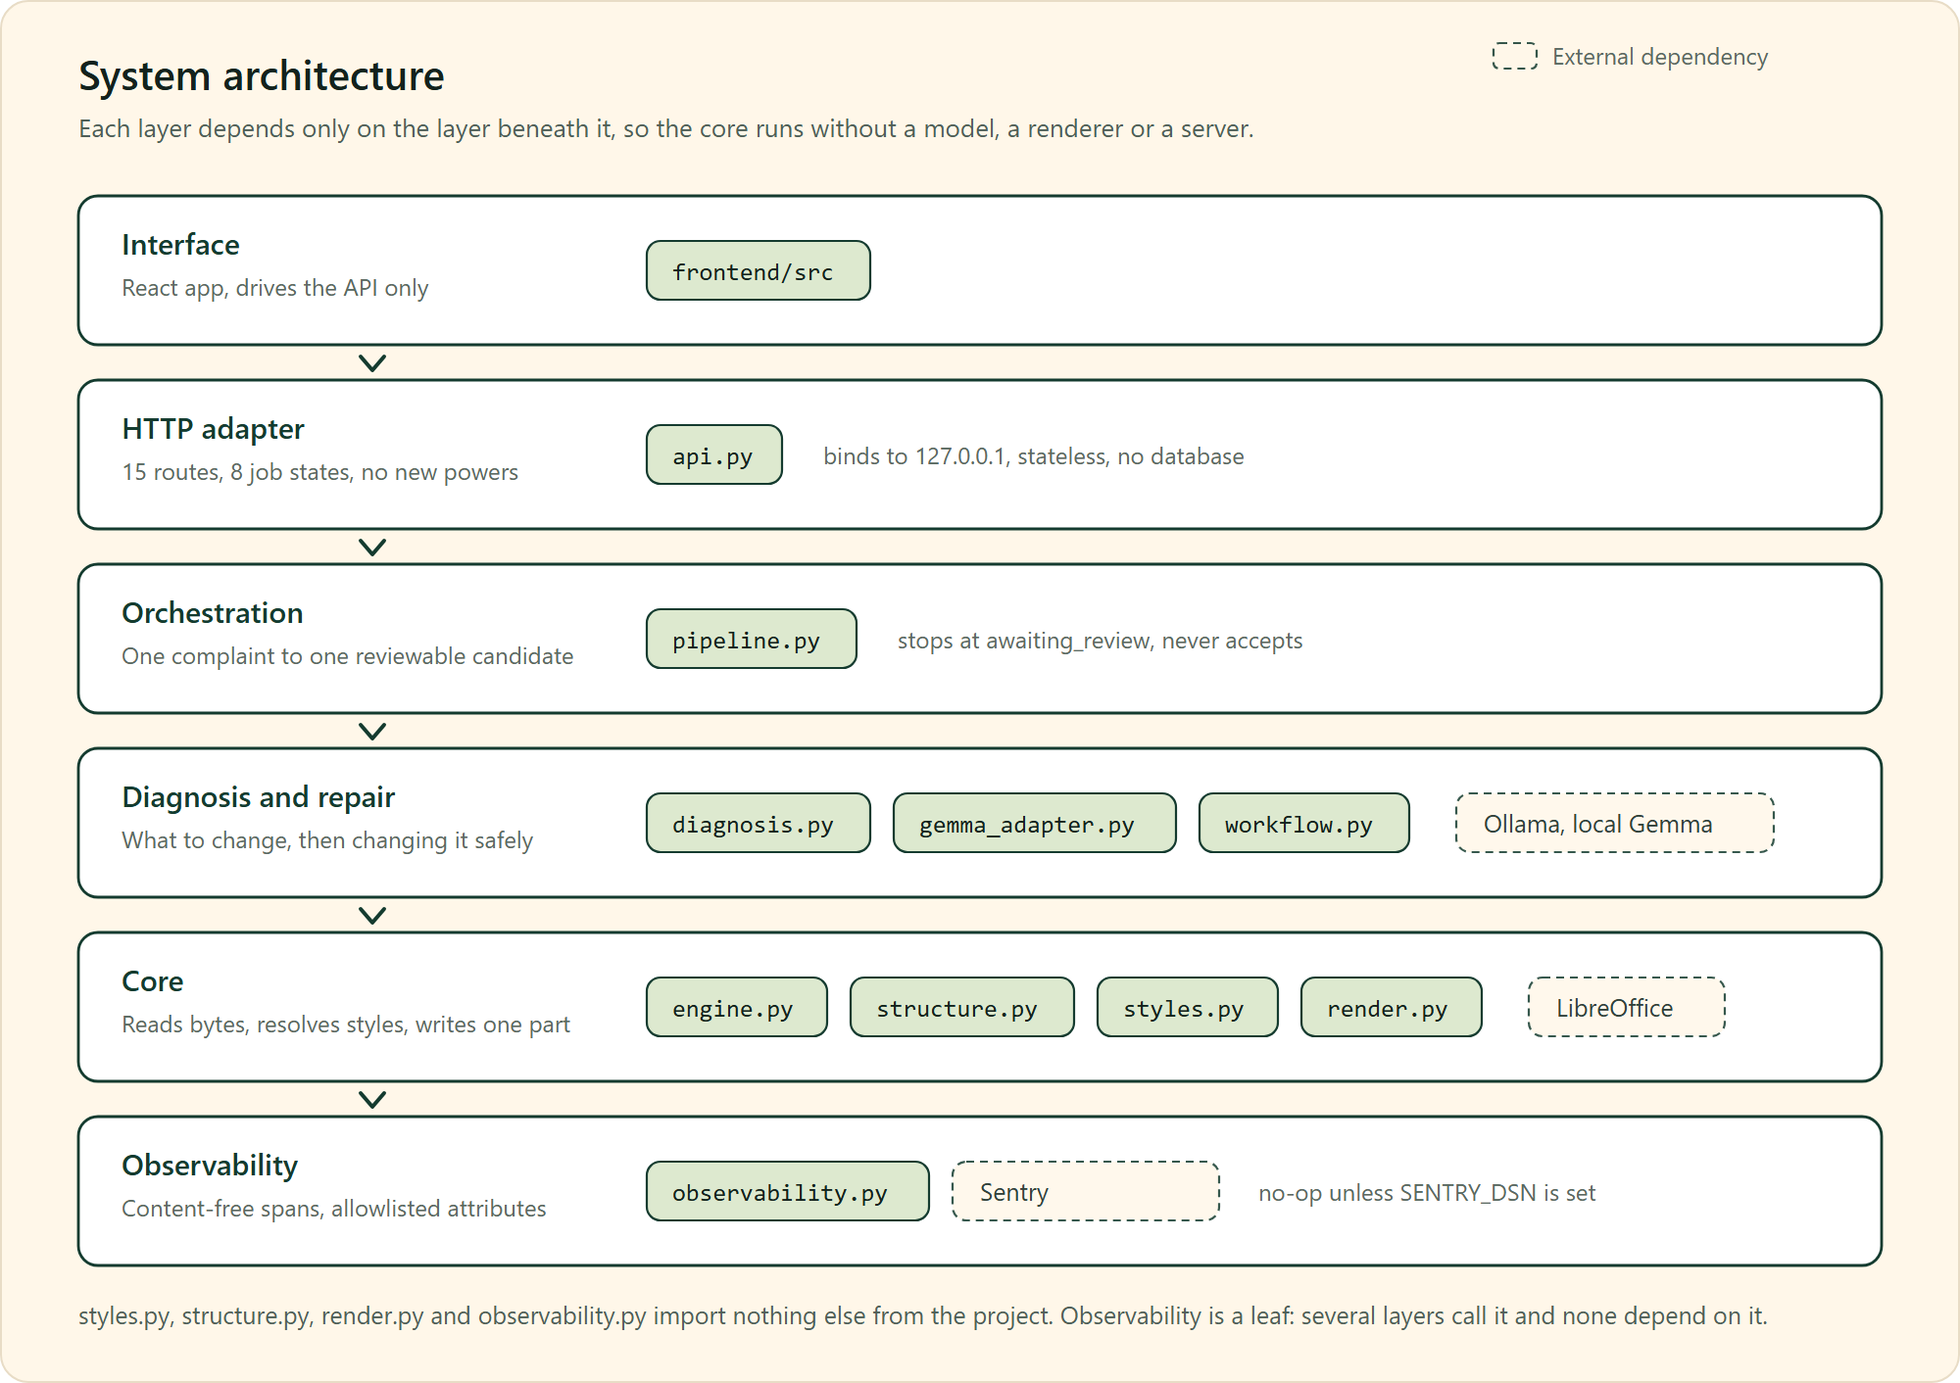
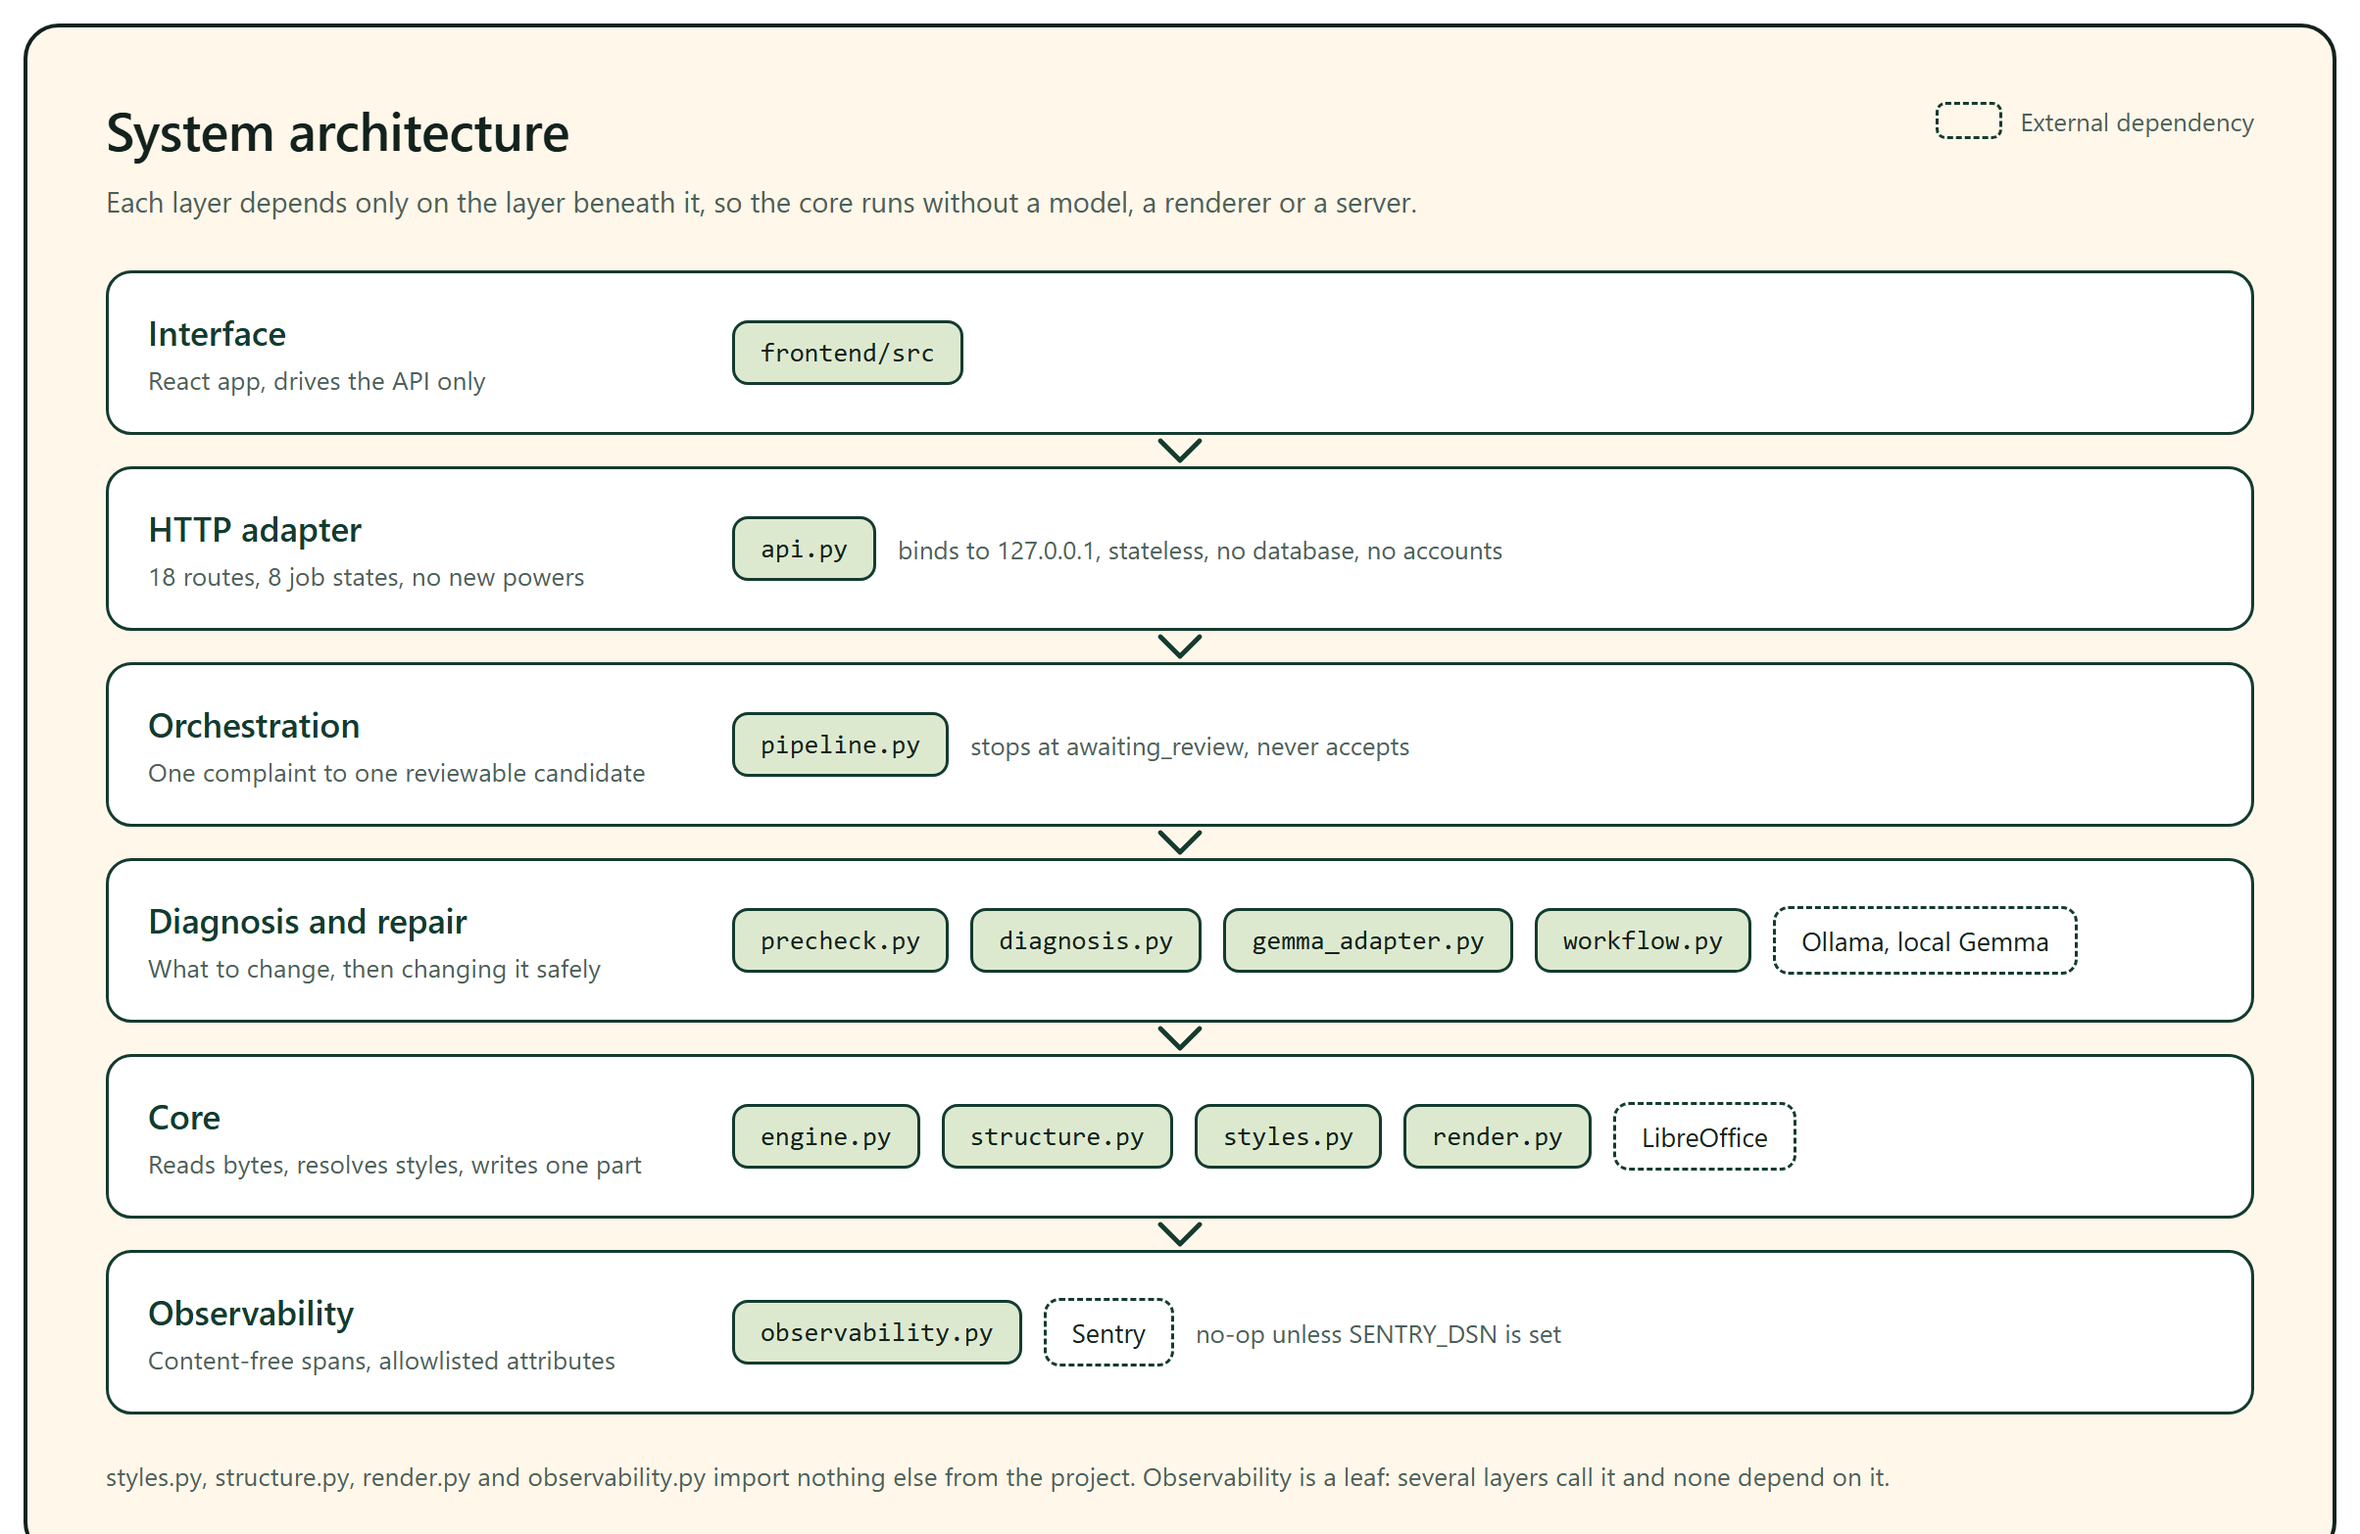
update

Changed region(s): [[0.0, 0.0, 1.0, 1.0]]

diff --git a/README.md b/README.md
@@ -6,18 +6,56 @@
 
 <p align="center"><b>Point at the formatting problem. Get a targeted, reviewable repair.</b></p>
 
-You open a Word document and something is off. A heading floats too far down the page.
-One paragraph is centred when the rest are justified. A page break strands two lines on
-a page of their own. You know what is wrong but not what it is called, and the fix is
-buried three dialogs deep.
+<p align="center">
+  <a href="docs/video/what-the-doc.mp4">Watch the demo</a> ·
+  <a href="#the-problem">The problem</a> ·
+  <a href="#system-architecture">Architecture</a> ·
+  <a href="#run-it-locally">Run it locally</a> ·
+  <a href="CAPABILITIES.md">What it repairs</a> ·
+  <a href="API.md">HTTP API</a>
+</p>
 
-This project takes the complaint in plain language, finds the evidence in the file,
-proposes exactly one bounded change, renders the before and after, checks that nothing
-else moved, and then stops and waits for you. It never accepts its own repair.
+---
 
-A local Gemma does the diagnosis. The document never leaves the machine, there is no
-API key, and the model is only ever allowed to fill in a plan the engine already knew
-how to validate.
+## The problem
+
+You change one line in a Word document and the whole thing rearranges itself. A page
+break appears from nowhere. Paragraphs shift. A heading floats half a page from the
+text it belongs to. There is a blank gap you cannot delete, and none of the settings
+you click seems to be the one responsible.
+
+The symptom is visible; the cause is not. A gap above a heading can be direct spacing,
+a value inherited from a style, a `keep_with_next` chain, an explicit break element or a
+section start: five different things in the file that look identical on the page, each
+fixed from a different dialog. So you work through the ribbon by elimination, and the
+formatting ends up costing more than writing the document did.
+
+## The solution
+
+**What the Doc?!** is a privacy-first formatting assistant for `.docx` files. You upload
+a document, point at the paragraph, and describe what looks wrong in plain language. A
+locally running, open-weight Gemma reads the structured evidence behind that paragraph
+and proposes exactly one bounded change. The service patches a copy, renders before and
+after, re-checks that nothing else in the file moved, and then stops.
+
+A person accepts or rejects. **The tool never accepts its own repair**, and it never
+writes to your original file.
+
+The document never leaves the machine. There is no account, no API key and no upload to
+a third-party service: Gemma runs locally through Ollama, and it is only ever allowed to
+fill in a plan the engine already knew how to validate.
+
+### Why it works this way
+
+Built for the [Hacktoberfest Open-Source AI Challenge, Week 3](https://dev.to/challenges/hf26)
+— theme *Slow and Steady*, 19–25 October 2026 — whose prompt was to use open-source AI
+to automate a task you dread. Word formatting is that task.
+
+Taking "do the tedious work for me" seriously, though, means the tool has to be
+trustworthy enough to be left alone with your file. That is why most of this repository
+is the word **no**: a bounded set of supported edits, a schema the model's answer must
+fit, preservation invariants re-checked against the bytes on disk, and a human gate
+before anything is downloaded. Abstention is a valid answer and is reported as one.
 
 ---
 
@@ -33,7 +71,7 @@ how to validate.
 | [Three repairs, and one non-repair](#three-repairs-and-one-non-repair) | the page-break trap |
 | [Run it locally](#run-it-locally) | five minutes, no model needed |
 | [The live Gemma layer](#the-live-gemma-layer) | setup, prompt, failures, numbers |
-| [The local HTTP API](#the-local-http-api) | what the frontend drives |
+| [The HTTP API](#the-http-api) | what the frontend drives |
 | [Repository layout](#repository-layout) | every file, one line each |
 | [Limits](#limits) | and what this is deliberately not |
 
@@ -81,10 +119,10 @@ paginate alike, so rendered pages stay an approximation.
 
 ![Layered architecture: a React interface over a FastAPI adapter, over the pipeline, over the diagnosis and repair layers, over the core modules, with observability as a leaf](docs/diagrams/architecture.png)
 
-The direction of dependency is the whole design. The HTTP adapter calls the pipeline,
-the pipeline calls diagnosis and workflow, and those call the engine. Nothing lower
-reaches back up, which is why `engine.py inspect` keeps working with no model installed,
-no renderer present and no server running.
+The direction of dependency is the whole design. The HTTP adapter calls the pipeline;
+the pipeline calls the precheck, the diagnosis and the workflow; and those call the
+engine. Nothing lower reaches back up, which is why `engine.py inspect` keeps working
+with no model installed, no renderer present and no server running.
 
 `api.py` is an adapter, not a second engine. Every bound, validator and preservation
 invariant it applies is the one `pipeline.run`, `engine.validate` and
@@ -436,12 +474,12 @@ on the odd-page section. It still never asks for clarification, saying `no_chang
 
 ---
 
-## The local HTTP API
+## The HTTP API
 
 `api.py` is a small FastAPI adapter over the pipeline above, for the React frontend to
-drive. It covers upload, per-paragraph evidence, an asynchronous job with the eight
-states above, before and after preview images, explicit acceptance and a guarded
-download.
+drive. Its eighteen routes cover upload, per-paragraph evidence, an asynchronous job
+with the eight states above, before and after preview images, explicit acceptance and a
+guarded download. It adds no power the command line does not already have.
 
 ```powershell
 pip install -r requirements.txt
@@ -467,8 +505,20 @@ kept strictly apart: an injected diagnosis is refused unless the server was star
 Gemma runtime is reachable a job is refused with `model_unavailable` rather than answered
 from a mock.
 
-It binds to `127.0.0.1` and has **no authentication, no rate limiting, no database and no
-sandbox around LibreOffice. Do not expose it.**
+### Local mode and hosted-demo mode
+
+By default it binds to `127.0.0.1` with **no authentication, no rate limiting, no
+database and no sandbox around LibreOffice**. That is the local development mode, and it
+should not be exposed.
+
+`--public` (or `WTD_PUBLIC=1`) is the hosted-demo mode that the Render blueprint in
+`render.yaml` runs. It still has no accounts. Instead, each browser sends a random
+visitor key so a job list shows only its own jobs, uploads and jobs are rate limited per
+client address, at most three jobs wait at once before a new one is refused with `busy`,
+documents and jobs are deleted after an hour, and fixture injection is forced off. It
+still does not sandbox LibreOffice; the host's container boundary is all there is. This
+is sized for a judged demo of a handful of people, not for a multi-user service.
+[`DEPLOYMENT.md`](DEPLOYMENT.md) states exactly what is built and what is not.
 
 The full contract, with request and response examples, the state table, polling guidance
 for CPU inference and the complete frontend flow, is in [`API.md`](API.md).
@@ -509,6 +559,7 @@ downwards in these tables.
 | --- | --- |
 | `diagnosis.py` | The strict response schema and the named failure codes. It decides what a model answer is not allowed to be. |
 | `gemma_adapter.py` | The prompt builder and the Ollama-compatible client. No file path, raw XML, tool or shell is ever sent. |
+| `precheck.py` | One deterministic rule that runs before the model is asked: a spacing complaint about a paragraph that has no spacing of its own. Its only possible answer is `no_change`, so it can never put an edit in front of anyone; in every other situation it returns nothing and the model is asked as before. |
 | `pipeline.py` | The vertical slice: complaint to diagnosis to validated plan to rendered candidate to review status. Adds no powers the engine does not already have. |
 
 **The service and its tracing**
@@ -525,6 +576,8 @@ downwards in these tables.
 | `fixtures.py` | The Word-openable four-page sample carrying three labelled faults, each recording the repair a correct diagnosis should reach. |
 | `eval_fixtures.py` | The second sample, carrying the cases a diagnosis must get right, including the ones it should decline. |
 | `break_fixtures.py` | Real packages carrying explicit run breaks: manual page breaks (two in a single paragraph, plus unsupported contexts and a line break), a genuinely two-column document with a manual column break, and a two-section document. Kept separate from `fixtures.py`, because a `page_break_before` document is not evidence about an explicit break. |
+| `section_fixtures.py` | Word-openable documents carrying more than one section, kept separate again because a section start is a third distinct thing from a `page_break_before` and from an explicit break. |
+| `make_test_documents.py` | Writes `test-documents/` and its manifest. The files are committed, so a tester never runs this; it exists so the manifest is computed from the documents rather than written by hand. |
 | `demo.py` | The Milestone B walkthrough: evidence, the single expected repair, before and after render, and what changed. |
 | `live_eval.py` | The live grading run. Deliberately not a unittest module, because the deterministic suite must pass with no model installed. |
 | `word_check.py`, `word_check.ps1` | Optional, Windows-only cross-check of the resolver against Word's own effective formatting. |
@@ -541,10 +594,14 @@ network.
 | `test_api.py` | The HTTP contract, the state table and the acceptance boundary, with the model unreachable by construction. |
 | `test_api_noop.py` | Effective no-op rejection through the review boundary, inspecting actual candidate DOCX bytes. |
 | `test_api_render.py` | Renderer failures staying failed jobs rather than becoming approvable repairs. |
+| `test_precheck.py`, `test_alignment_rule.py` | The two deterministic rules: what each one answers, and the far larger set of situations where it declines and the model is asked instead. |
 | `test_structure.py` | Break and section inspection, target identity and staleness, the removal itself, the narrowed invariants, and rendered demonstrations. |
 | `test_api_breaks.py` | The two inspection endpoints, break selection and its refusals, and the server-side rendering requirement at review, acceptance and download. |
 | `test_observability*.py`, `test_api_observability.py` | Real SDK envelopes captured by a test transport, checked for span shape and for the absence of document content. |
-| `test_eval_fixtures.py` | That the evaluation's cases really are the situations its manifest claims. |
+| `test_sections.py`, `test_api_sections.py` | The one supported section mutation, in the core and then at the HTTP boundary, with every diagnosis there labelled as an injected fixture. |
+| `test_api_document_breaks.py`, `test_api_document_preview.py` | Whole-document break repair answered by `precheck` rather than the model, and the requirement that an uploaded document is viewable before anything is proposed. |
+| `test_api_public.py` | Public mode: the visitor scoping, rate limits, queue cap and retention that stand in for accounts, and the refusal of fixture injection. |
+| `test_eval_fixtures.py`, `test_live_eval.py`, `test_test_documents.py` | That the evaluation's cases really are the situations its manifest claims, that the grader's bookkeeping holds offline, and that the committed hand-testing kit agrees with its manifest from any clone. |
 
 **The interface**
 
@@ -565,11 +622,12 @@ network.
 | [`TEST_RESULTS.md`](TEST_RESULTS.md) | What each run actually established, with live results kept apart from deterministic ones. |
 | [`IDEATION.md`](IDEATION.md) | The product and implementation plan, including the hardening this prototype does not implement. |
 | [`OBSERVABILITY.md`](OBSERVABILITY.md), [`SENTRY_SETUP.md`](SENTRY_SETUP.md) | Span map, privacy rules, configuration, and what hosted verification is still missing. |
-| [`DEPLOYMENT.md`](DEPLOYMENT.md) | What can and cannot be deployed today, and why. |
+| [`DEPLOYMENT.md`](DEPLOYMENT.md) | The three ways to run it: local (working), the Render blueprint in public mode (configured), and a multi-user service (not built). |
 | [`START_HERE.md`](START_HERE.md), [`TEST_IT_YOURSELF.md`](TEST_IT_YOURSELF.md) | The five-minute start, and nine prepared documents to try it on. |
 | [`TINKER_NEXT.md`](TINKER_NEXT.md) | The judgement problems left open, and what would have to be true to fix them. |
 
-**Diagrams.** The five PNGs on this page live in [`docs/diagrams/`](docs/diagrams/),
+**Media.** The demo recording is [`docs/video/what-the-doc.mp4`](docs/video/what-the-doc.mp4).
+The five PNGs on this page live in [`docs/diagrams/`](docs/diagrams/),
 drawn in the palette from `frontend/docs/DESIGN_SYSTEM.md` and exported at 2x.
 
 ---
@@ -596,7 +654,8 @@ authentication first.
 Rendering runs LibreOffice with a throwaway user profile and a timeout, and passes the
 document as an argument vector, never through a shell. The container, dropped privileges,
 blocked outbound network and resource caps described in `IDEATION.md` section 9 are
-**not** implemented, so this is for local development only. Each conversion uses fresh
+**not** implemented. The hosted-demo container relies on the host's own boundary and
+nothing more, which is why it is sized for a judged demo rather than for public use. Each conversion uses fresh
 staging output, so a failed retry cannot reuse an older PDF. A missing renderer still
 permits structural review with `visual_comparison: null`, and acceptance is then
 permitted without previews, so the reviewer has to open the DOCX in Word. A renderer that
@@ -620,10 +679,10 @@ contents of someone's file, so the directory is ignored whole, and `*.docx`, `*.
 the image extensions are ignored repository-wide as a second line of defence. A
 screenshot of a synthetic fixture worth keeping has to be added on purpose with
 `git add -f`, which is the intended friction: no sweep of untracked files can ever commit
-a page rendered from a real document. The standing exceptions are the interface's own
-artwork in `frontend/public/` and the bundled Rubik fonts in `frontend/src/assets/`,
-re-included explicitly. The diagrams on this page are SVG, which the image rule does not
-cover and which reads as text anyway.
+a page rendered from a real document. Three things are re-included explicitly: the five
+diagrams on this page in `docs/diagrams/`, the interface’s own artwork in
+`frontend/public/`, and the bundled Rubik fonts in `frontend/src/assets/`. All of them
+are drawn or licensed for this project, and none is rendered from a document.
 
 **Anything large and not ours stays out.** `.venv/` and `node_modules/` are reproducible
 from `requirements.txt` and `package-lock.json`. `.tools/` holds the unpacked LibreOffice
